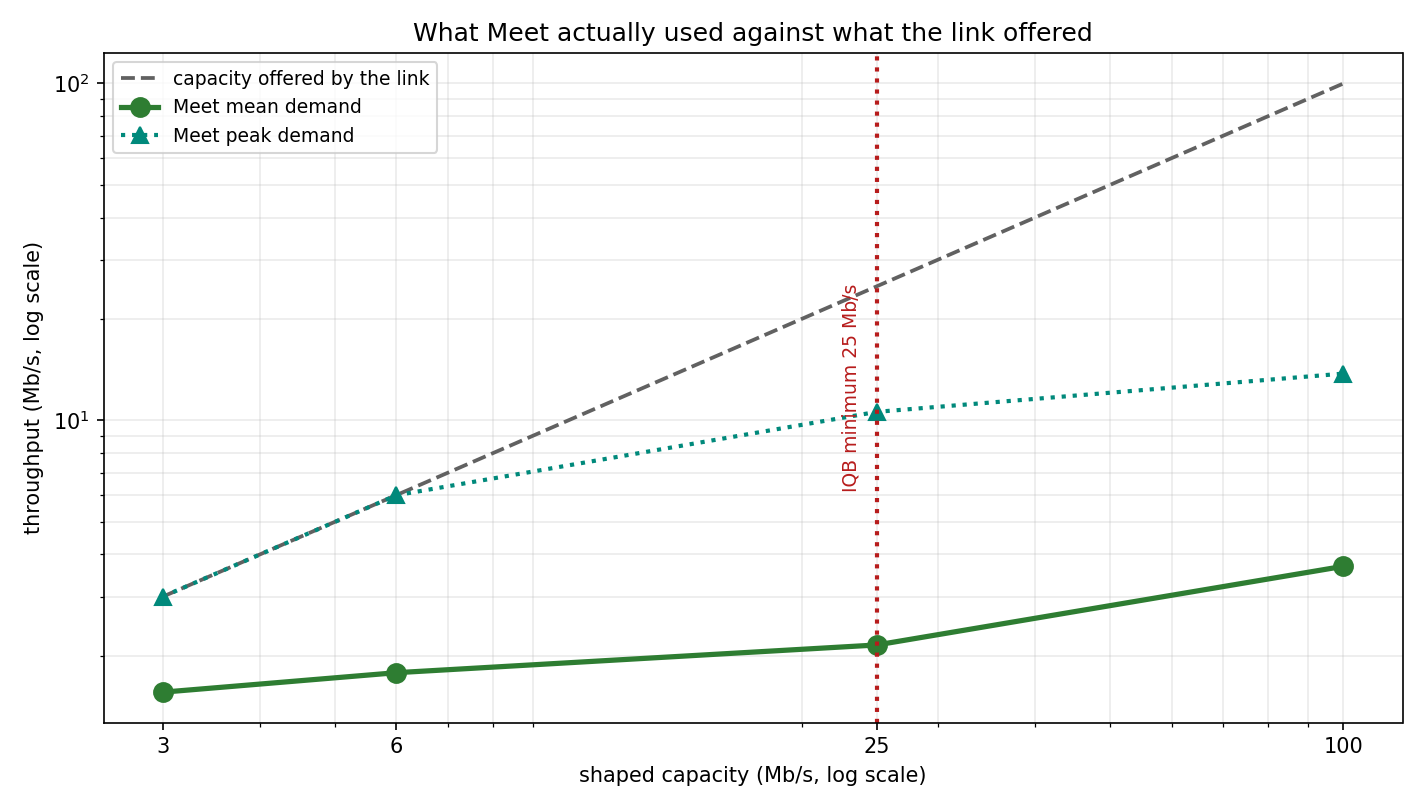
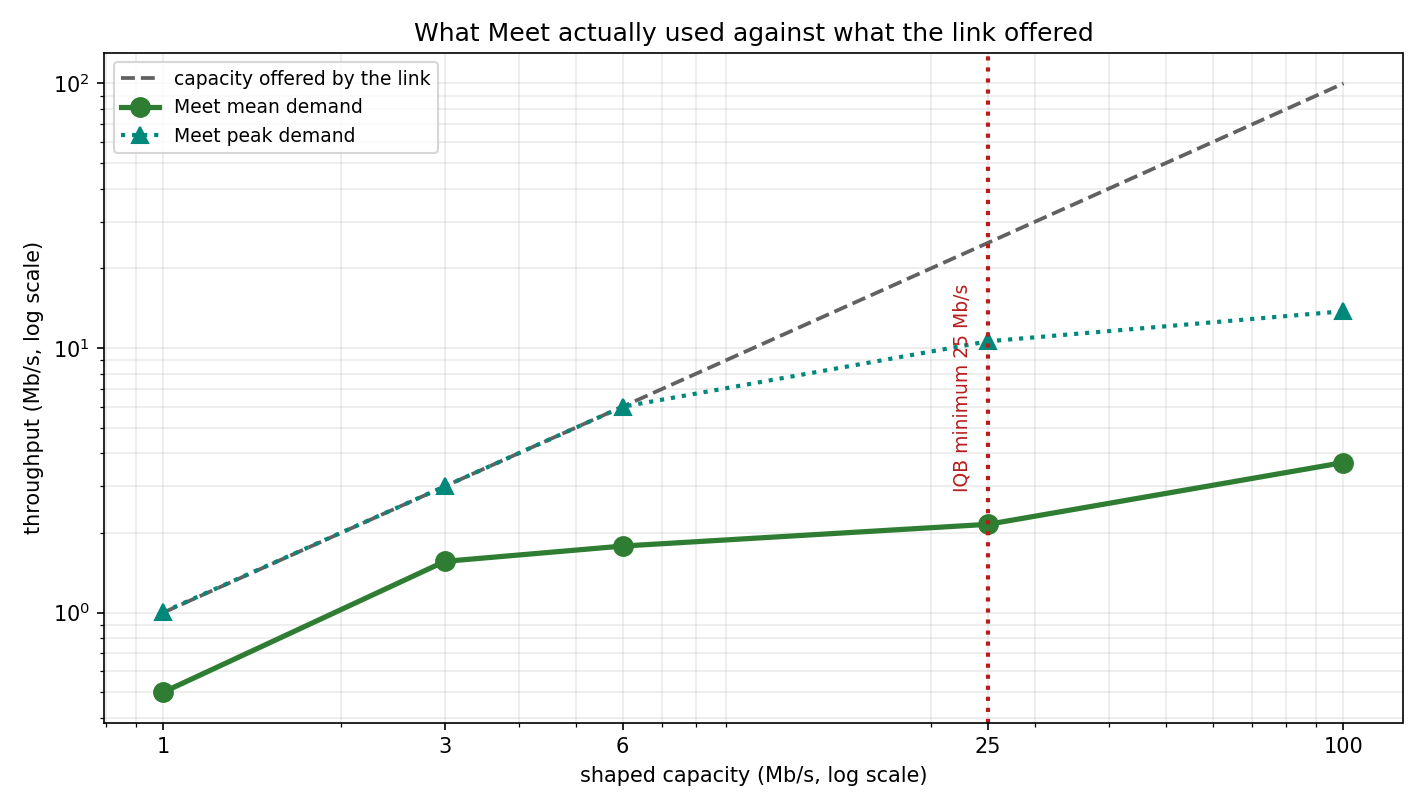
cpuc: the Meet low end -- the call breaks between 3 and 1 Mb/s
Adds the 1 and 0.5 Mb/s points, which is the question the sweep could not
answer before: every collected point was flat at "high", so the data
bounded the breakpoint from above without locating it.

  1 Mb/s    360p at 20 fps, 18% of the session frozen -> UNUSABLE
  0.5 Mb/s  no remote video arrived at all, in two attempts

So Meet holds reference quality down to 3 Mb/s, degrades to unusable by
1 Mb/s, and does not carry video at 0.5. The 8x headroom against IQB's
25 Mb/s conferencing minimum stands, and now has a floor under it.

Three corrections this data forced, each of which would otherwise have
been a false claim in the PR:

- "Not collected" and "we ran it and no video ever arrived" are different
  claims, and only the second is evidence about the link. 0.5 Mb/s is now
  labelled "no remote media" -- a measured outcome -- instead of being
  collapsed into the not-collected bucket with the points the dead meeting
  cost us.

- The capacity-limited sentence said Meet "still delivered reference
  quality" wherever its peak reached the cap. That was true when every
  such point was High; with 1 Mb/s in the set it swept an unusable point
  into the claim. It now splits those points by their own label.

- The 1 Mb/s demand figure was 0.226 Mb/s, computed from a run that never
  carried remote video. Recomputed from the valid attempt: 0.50 Mb/s mean,
  1.004 Mb/s peak -- pinned to the cap, which is what being
  capacity-limited looks like.
[…]

diff --git a/experiments/cpuc/report_meet.py b/experiments/cpuc/report_meet.py
@@ -87,7 +87,7 @@ def load_demand(path: str | None = None) -> dict:
 
 # Points the matrix asked for, so a missing one is reported as NOT COLLECTED
 # rather than silently absent from the curve.
-EXPECTED_RATES = (100.0, 25.0, 6.0, 3.0, 1.0)
+EXPECTED_RATES = (100.0, 25.0, 6.0, 3.0, 1.0, 0.5)
 
 
 def build_table(rows):
@@ -154,7 +154,17 @@ def build_table(rows):
             # the QoE is not collected, neither is the demand.
             t["meet_demand_mbps"] = None
             t["meet_peak_mbps"] = None
-            t["qoe_label"] = "not collected"
+            # "Not collected" and "we ran it and no video ever arrived" are
+            # different claims, and only the second one is evidence about the
+            # link. A run that reached NoRemoteInboundMedia on every attempt
+            # IS a measurement: the call did not carry remote video at that
+            # capacity. Collapsing it into "not collected" would throw away
+            # the lowest point on the curve.
+            reason = t.get("invalid_reason") or ""
+            if "NoRemoteInboundMedia" in reason:
+                t["qoe_label"] = "no remote media"
+            else:
+                t["qoe_label"] = "not collected"
     for rate in EXPECTED_RATES:
         if rate not in seen:
             out.append(
@@ -321,19 +331,80 @@ def sentences(f, table=None):
             continue
         (cap_ltd if pk >= 0.95 * cap else demand_ltd).append(cap)
     if demand_ltd and cap_ltd:
-        s.append(
+        # Being capacity-limited and still looking good is the interesting
+        # claim, and it stops being true at the point where quality breaks.
+        # Splitting the capacity-limited points by their own label keeps the
+        # sentence from sweeping an unusable point into "still delivered
+        # reference quality".
+        good_cap = sorted(
+            (
+                r["rate_mbps_symmetric"]
+                for r in table
+                if r.get("meet_peak_mbps") is not None
+                and r.get("rate_mbps_symmetric")
+                and r.get("app_valid")
+                and r["meet_peak_mbps"] >= 0.95 * r["rate_mbps_symmetric"]
+                and r.get("qoe_label") == "high"
+            ),
+            reverse=True,
+        )
+        line = (
             "Meet was demand-limited at "
             + ", ".join(f"{c:g}" for c in sorted(demand_ltd, reverse=True))
             + " Mb/s, where its peak stayed well under the cap, but "
             "capacity-limited at "
             + ", ".join(f"{c:g}" for c in sorted(cap_ltd, reverse=True))
-            + " Mb/s, where its peak reached the cap and it still delivered "
-            "reference quality."
+            + " Mb/s, where its peak reached the cap"
         )
+        if good_cap:
+            line += (
+                " and it still delivered reference quality at "
+                + ", ".join(f"{c:g}" for c in good_cap)
+                + " Mb/s."
+            )
+        else:
+            line += "."
+        s.append(line)
     elif demand_ltd:
         s.append(
             "Meet never reached the cap at any measured point, so it was "
             "demand-limited throughout."
+        )
+
+    # Where the call actually breaks. This is the question the low end was
+    # run to answer, so it is stated outright rather than left to the table.
+    broke = sorted(
+        (
+            r["rate_mbps_symmetric"]
+            for r in table
+            if r.get("qoe_label") == "unusable" and r.get("rate_mbps_symmetric")
+        ),
+        reverse=True,
+    )
+    nomedia = sorted(
+        (
+            r["rate_mbps_symmetric"]
+            for r in table
+            if r.get("qoe_label") == "no remote media" and r.get("rate_mbps_symmetric")
+        ),
+        reverse=True,
+    )
+    if broke:
+        line = f"Quality breaks between {lg:g} and {broke[0]:g} Mb/s: " if lg else ""
+        r1 = next(r for r in table if r["rate_mbps_symmetric"] == broke[0])
+        line += (
+            f"at {broke[0]:g} Mb/s the call fell to "
+            f"{r1['resolution_p']:.0f}p at {r1['fps']:.0f} fps with "
+            f"{r1['freeze_ratio'] * 100:.0f}% of the session frozen, which is "
+            "Unusable by the pre-registered thresholds."
+        )
+        s.append(line)
+    if nomedia:
+        s.append(
+            "At "
+            + ", ".join(f"{c:g}" for c in nomedia)
+            + " Mb/s no remote video arrived at all, in two attempts, so the "
+            "call did not carry video rather than carrying it badly."
         )
 
     missing = [
@@ -343,11 +414,7 @@ def sentences(f, table=None):
         s.append(
             "The "
             + ", ".join(f"{c:g}" for c in sorted(missing))
-            + " Mb/s point was NOT collected (the meeting ended before a valid "
-            "run completed), so the quality breakpoint is below "
-            f"{lg:g} Mb/s rather than at it."
-            if lg
-            else "points were not collected."
+            + " Mb/s point was not collected."
         )
     return " ".join(s)
 

diff --git a/experiments/cpuc/results/iqb_vs_qoe_table.md b/experiments/cpuc/results/iqb_vs_qoe_table.md
@@ -4,4 +4,5 @@
 | 25 Mb/s | 23.28 | 23.54 | fails minimum (upload) | 720p | 23.9 | 0 (0.00%) | 2.15 | high ⚠ |
 | 6 Mb/s | 5.66 | 5.72 | fails minimum (download) | 720p | 23.0 | 0 (0.00%) | 1.78 | high ⚠ |
 | 3 Mb/s | 2.85 | 2.86 | fails minimum (download) | 720p | 22.7 | 2 (0.70%) | 1.56 | high ⚠ |
-| 1 Mb/s | 0.96 | 0.96 | fails minimum (download) | — | — | — | — | not collected |
+| 1 Mb/s | 0.96 | 0.96 | fails minimum (download) | 360p | 19.9 | 8 (17.95%) | 0.50 | unusable ⚠ |
+| 0.5 Mb/s | 0.48 | 0.48 | fails minimum (download) | — | — | — | — | no remote media |
